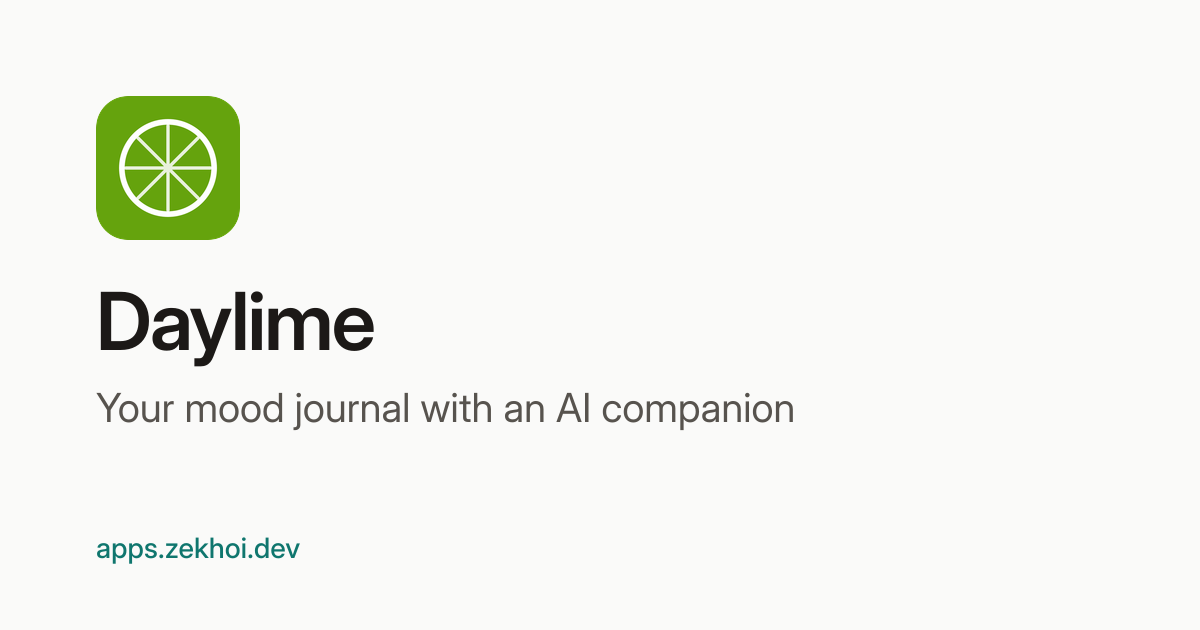
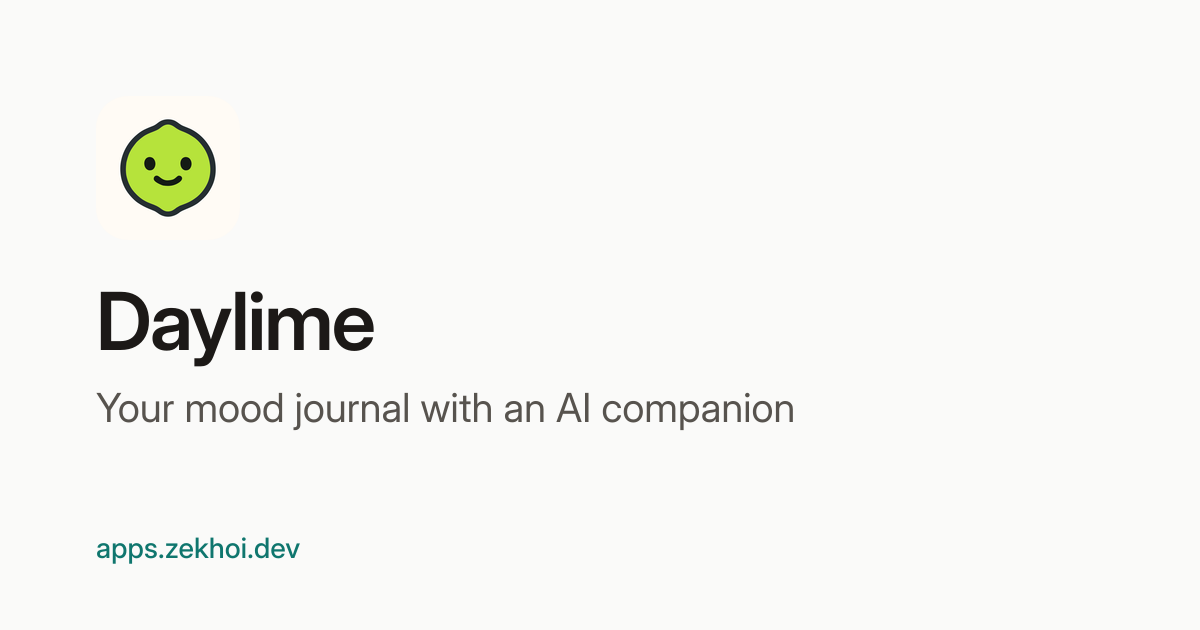
feat: add Kawaii Cat Cafe and refresh Daylime
Add Kawaii Cat Cafe as a web game with its icon, screenshots, OG image
and privacy policy, and let the screenshot strip show landscape images
wider.

Daylime moves to beta with the Google Play beta link and its real icon,
and drops the open-source and GitHub mentions because the repository is
private.

Changed region(s): [[0.0617, 0.1508, 0.2158, 0.3921]]

diff --git a/src/content/apps/kawaii-cat-cafe/index.md b/src/content/apps/kawaii-cat-cafe/index.md
@@ -1,0 +1,44 @@
+---
+name: Kawaii Cat Cafe
+tagline: A cozy cat cafe tycoon you play in your browser
+description: Kawaii Cat Cafe is a cozy isometric cafe tycoon. Hire staff, collect cats, decorate the room, and grow a tiny coffee corner into the most popular cat cafe in town.
+type: game
+platforms: [web]
+status: live
+icon: ../../../assets/apps/kawaii-cat-cafe/icon.png
+ogImage: ../../../assets/apps/kawaii-cat-cafe/og.png
+screenshots:
+  - ../../../assets/apps/kawaii-cat-cafe/cafe.webp
+  - ../../../assets/apps/kawaii-cat-cafe/closeup.webp
+  - ../../../assets/apps/kawaii-cat-cafe/build-mode.webp
+  - ../../../assets/apps/kawaii-cat-cafe/receipt.webp
+features:
+  - title: Run the cafe
+    description: Pick the day's shift, choose the menu, and open the doors. Servers take orders, baristas make them, and a receipt sums up each day.
+  - title: Collect cats
+    description: Spend treats to pull one of 16 cats. Customers pet the cats near their seat, and duplicates make a cat's trait stronger.
+  - title: Decorate the room
+    description: Buy furniture, wallpapers, and floors, recolour pieces, and complete decor themes such as Sakura and Tea House.
+  - title: Grow to five stars
+    description: Pass star exams to earn bigger rooms, a garden terrace, rare visitors, and upgrades.
+links:
+  web: https://kawaii.zekhoi.dev
+supportEmail: me@zekhoi.dev
+hasAccounts: false
+faq:
+  - question: Do I need an account?
+    answer: No. The game has no accounts. Open it in a browser and play.
+  - question: Where is my cafe saved?
+    answer: In your browser, on the device you play on. The game saves automatically. Clearing the site's data in your browser removes the save.
+  - question: How do I move my cafe to another device or browser?
+    answer: Open Settings with the gear in the top bar and save your cafe as a file. Load that file in Settings on the other device.
+  - question: Does it work on phones and tablets?
+    answer: Yes. The controls adapt to touch. One finger drags the view and two fingers pinch to zoom.
+  - question: Does the cafe keep running while the game is closed?
+    answer: Yes. The staff run one day for every 15 minutes the game is closed, up to 10 days. You can change the cap or turn this off in Settings.
+order: 2
+---
+
+Kawaii Cat Cafe is a cozy isometric cafe tycoon built with three.js. Hire staff, collect cats that customers love to pet, decorate the cafe, and grow it from a tiny coffee corner into the most popular cat cafe in town.
+
+It runs in the browser on computers, phones, and tablets, with nothing to install.

diff --git a/src/content/apps/daylime/index.md b/src/content/apps/daylime/index.md
@@ -1,10 +1,10 @@
 ---
 name: Daylime
 tagline: Your mood journal with an AI companion
-description: Daylime is an open-source mood journal that helps you track how you feel and reflect with an AI companion.
+description: Daylime is a mood journal that helps you track how you feel and reflect with an AI companion.
 type: app
 platforms: [android]
-status: coming-soon
+status: beta
 icon: ../../../assets/apps/daylime/icon.png
 ogImage: ../../../assets/apps/daylime/og.png
 screenshots: []
@@ -15,22 +15,22 @@ features:
     description: Write entries alongside your mood so you remember what shaped each day.
   - title: Reflect with an AI companion
     description: Talk through your entries with an AI companion that helps you reflect.
-  - title: Open source
-    description: The code is public on GitHub, so anyone can see how Daylime works.
+  - title: Works offline
+    description: With no signal, your check-in saves on your phone and syncs when you are back online.
 links:
   website: https://daylime.app
-  github: https://github.com/zekhoi/daylime
+  playStore: https://play.google.com/apps/testing/com.daylime.app
 supportEmail: me@zekhoi.dev
 hasAccounts: true
 faq:
   - question: When will Daylime be available?
-    answer: Daylime is coming to Google Play. This page will link to the listing as soon as it is live.
+    answer: Daylime is in beta on Android. Join the beta on Google Play to install it.
   - question: Is my journal sent to the AI companion?
     answer: Only what you share with it. When you use the AI companion, the message and the context it needs are sent to an AI provider to generate a reply. The privacy policy has the details.
   - question: How do I delete my account and data?
     answer: Delete it from the app's account settings, or email support from your account address if you cannot open the app. The Delete Account page lists the steps and what is removed.
   - question: Where do I report a bug?
-    answer: Open an issue on the Daylime GitHub repository, or email support with your device model, Android version, and app version.
+    answer: Email support with your device model, Android version, and app version.
 order: 1
 ---
 

diff --git a/src/content/apps/kawaii-cat-cafe/privacy.md b/src/content/apps/kawaii-cat-cafe/privacy.md
@@ -1,0 +1,36 @@
+---
+title: Privacy Policy
+description: What Kawaii Cat Cafe stores, where it is kept, and how to remove it.
+updatedAt: 2026-09-30
+---
+
+Kawaii Cat Cafe is a browser game made by zekhoi, an independent developer. It has no accounts and does not ask for your name, email address, or any other personal details.
+
+## What the game stores
+
+The game keeps these in your browser's local storage, on the device you play on:
+
+- your cafe save
+- your settings, such as music and sound volume
+- which tips you have already seen
+- when you last played, so the cafe can catch up on the days you were away
+
+This data stays in your browser. The game does not send it to a server.
+
+## Save files
+
+In Settings you can save your cafe as a file and load it again. The file is written to your device and goes nowhere else unless you share it yourself.
+
+## Other services
+
+The game loads its font from Google Fonts, so your browser makes a request to Google when the game opens.
+
+TODO: confirm the hosting provider for kawaii.zekhoi.dev, and what request logs it keeps and for how long.
+
+## Removing your data
+
+Choose "start a new cafe" in Settings to replace your save, or clear the site data for kawaii.zekhoi.dev in your browser to remove everything the game stored.
+
+## Contact
+
+Email [me@zekhoi.dev](mailto:me@zekhoi.dev) with any question about this policy.

diff --git a/src/content/apps/daylime/terms.md b/src/content/apps/daylime/terms.md
@@ -1,7 +1,7 @@
 ---
 title: Terms of Service
 description: The terms for using Daylime, including acceptable use and the limits of the AI companion.
-updatedAt: 2026-09-26
+updatedAt: 2026-09-30
 ---
 
 These terms are an agreement between you and zekhoi, the developer of Daylime. By creating an account or using Daylime, you agree to them. If you do not agree, do not use the app.
@@ -33,10 +33,6 @@ Do not use Daylime to:
 The AI companion is a reflection tool. Its replies are generated by an AI model, can be wrong or incomplete, and are **not** medical, psychological, legal, or other professional advice. It is not a therapist and cannot diagnose or treat any condition.
 
 Do not rely on it in an emergency. If you are in crisis or thinking about harming yourself, contact your local emergency number or a crisis line right away.
-
-## Open source
-
-The Daylime source code is published on [GitHub](https://github.com/zekhoi/daylime) under its own license. TODO: name the license. That license covers the code. These terms cover your use of the Daylime app and the service we run.
 
 ## Ending your account
 
